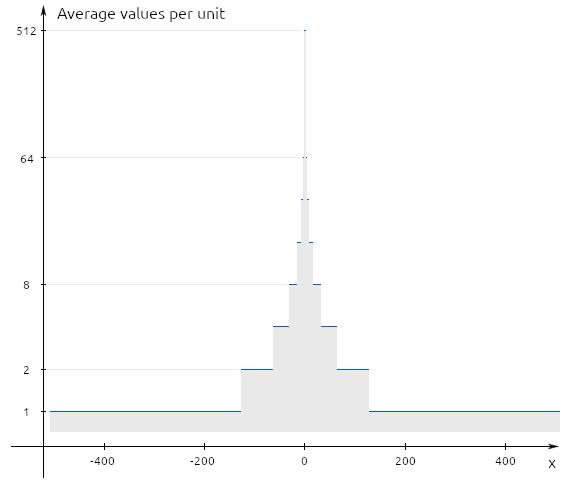
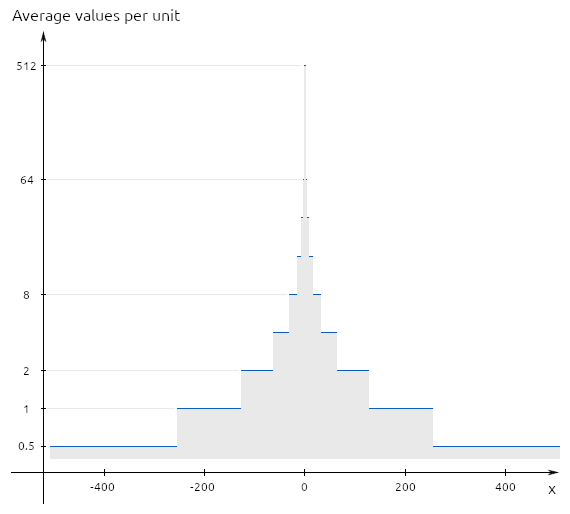
density.png fix

diff --git a/cmd/toyfloat_densitity/main.go b/cmd/toyfloat_densitity/main.go
@@ -24,7 +24,7 @@ func main() {
 		log.Fatal(err)
 	}
 
-	var counts [510]int
+	var counts [1020]int
 
 	for head := 0x00; head <= 0xFF; head++ {
 		for tail := 0x00; tail <= 0x0F; tail++ {
@@ -36,21 +36,16 @@ func main() {
 		}
 	}
 
-	for i := 0; i < len(counts); i++ {
-		// 1 pixel = 2 units.
-		// Values per integer = values per pixel / 2.
-		counts[i] = int(math.Round(float64(counts[i]) * 0.5))
-	}
-
 	lm := 50
 	rm := 5
 	tm := 20
 	bm := 40
 
-	ySize := len(counts) / 4 * 3
+	xSize := len(counts) / 2
+	ySize := xSize / 4 * 3
 
 	img := image.NewRGBA(image.Rect(0, 0,
-		len(counts)+lm+rm,
+		xSize+lm+rm,
 		ySize+tm+bm))
 
 	draw.Draw(img, img.Rect, image.White, image.Point{}, draw.Src)
@@ -63,8 +58,10 @@ func main() {
 
 	maxCountLog10 := -10000.0
 	minCountLog10 := 10000.0
-	for _, c := range counts {
-		countLog10 := math.Log10(float64(c))
+
+	for i := 0; i < len(counts); i += 2 {
+		cAverage := (float64(counts[i]) + float64(counts[i+1])) / 2
+		countLog10 := math.Log10(cAverage)
 
 		if countLog10 > maxCountLog10 {
 			maxCountLog10 = countLog10
@@ -77,25 +74,28 @@ func main() {
 
 	countLogDiff := maxCountLog10 - minCountLog10
 
-	uniqueCounts := make(map[int]bool)
+	uniqueCounts := make(map[float64]bool)
 
-	for i, count := range counts {
+	for i := 0; i < len(counts); i += 2 {
+		count := (float64(counts[i]) + float64(counts[i+1])) / 2
 		countLog10 := math.Log10(float64(count))
 
 		if !uniqueCounts[count] {
 			uniqueCounts[count] = true
-			fmt.Printf("count: %d, log10: %.2f\n", count, countLog10)
+			fmt.Printf("count: %.1f, log10: %.2f\n", count, countLog10)
 		}
 
 		v := (countLog10 - minCountLog10) / countLogDiff
 
 		y := math.Round(v*maxDensityY + (1.0-v)*minDensityY)
 		intY := int(y)
-		img.Set(lm+i, intY, paint)
+		x := lm + i/2
+		img.Set(x, intY, paint)
 
-		if intY < int(minDensityY) {
-			for y2 := intY + 1; y2 < int(minDensityY); y2++ {
-				img.Set(lm+i, y2, grey)
+		bGrey := bm / 3
+		if intY < int(minDensityY)+bGrey {
+			for y2 := intY + 1; y2 < int(minDensityY)+bGrey; y2++ {
+				img.Set(x, y2, grey)
 			}
 		}
 	}
@@ -114,6 +114,6 @@ func main() {
 }
 
 func toIndex(value float64) int {
-	u := (value + 510) / 2
+	u := value + 510
 	return int(u)
 }
